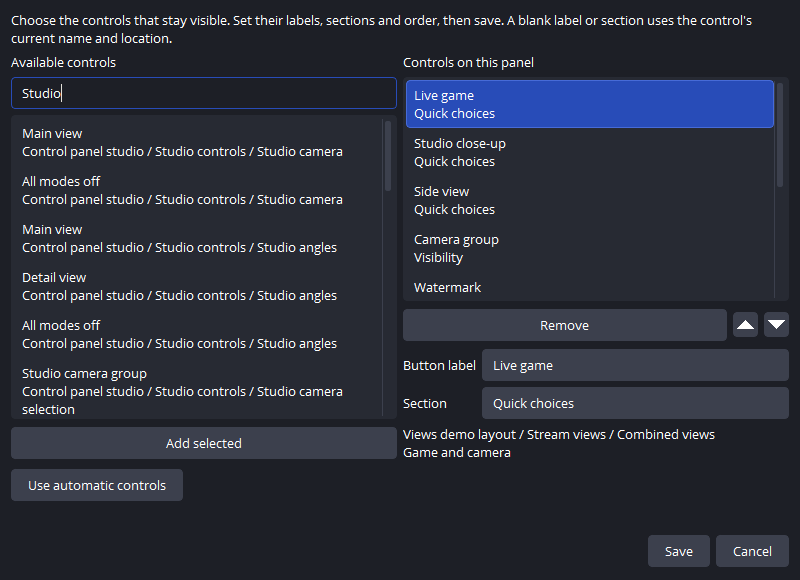
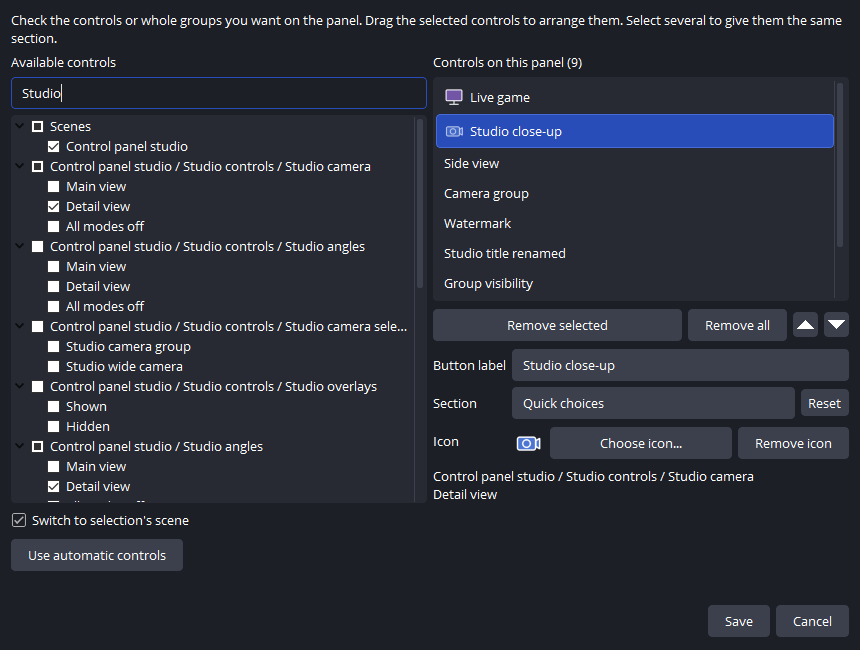
Document verified compact controls and Windows scene switching

diff --git a/DEVELOPMENT_HANDOFF.md b/DEVELOPMENT_HANDOFF.md
@@ -9,7 +9,7 @@ Read [AGENTS.md](AGENTS.md) first. This file is the current state.
 | Version | 0.1.0 (in `buildspec.json`). First pre-release is `0.1.0-beta1` |
 | Repository | https://github.com/TechSavage1989/StageKit (public; visibility verified, not changed) |
 | Default branch | `main`, which holds all work so far (pull request #1, merged 2026-11-12) |
-| Working branch | feat/compact-views-panel. Beta255 is published. The next update adds a compact list, easier panel editing, icons, button sizing and scene navigation when selecting a mode or view. |
+| Working branch | feat/compact-views-panel, PR278 for beta256. Beta255 is published. Compact controls and direct scene switching passed the complete Windows OBS run; the final guide/capture revision is awaiting its exact-head release gates. |
 | Releases / update feed | GitHub releases on this repository, which the plugin's updater reads (`src/update/`) |
 | Built against | OBS 31.1.1 (`buildspec.json`). The owner runs OBS 32.2.2 on Windows |
 | Gate | Checks passed |
@@ -46,7 +46,7 @@ Mode. The option off retains existing native destination behavior. Direct source
 controls and existing Stream Deck/vendor/hotkey defaults remain unchanged. The parent fallback must
 not guess a scene for a group or rebind a deleted destination to a same-name replacement.
 
-Implementation and validation are in progress. Preserve the beta255 panel's stable identities,
+Implementation is complete. Preserve the beta255 panel's stable identities,
 per-collection saved selections, empty custom panels, collection readiness and state-only refresh
 behavior. Actual Windows captures of the list, icon buttons and revised editor belong in this PR.
 The exact final head must pass Windows build/package, OBS frontend/restart and shared checks before
@@ -61,6 +61,17 @@ update, while execution still rejects a changed destination UUID. The icon failu
 selectFile call leaving its visible filename field empty; entering that real field reaches the working
 production image loader. The fixture keeps its strict icon and persistence assertions, captures compact
 buttons with every selected control visible, and restores the saved nondefault size before restart.
+
+Corrected head 5a62ca5986c1d837f532ff6d57e3ebeecafc2267 passed Windows frontend job 137992344279 in
+run 45260125245. Both result.txt and ndi-restart.txt report PASS, including the immediate destination
+edit/press regression, icons after removing their original files, nondefault Buttons/navigation settings,
+size 64, imported-original compatibility and collection isolation. All four quiet timing trials completed
+450 frames each; those software-renderer diagnostics do not establish hardware performance. The tested
+DLL SHA-256 is 6baed41e0be60cfc90b01dc1870cb39f52b514e4f0e9962cddda0619b3b26f16. Artifact 14861696305
+has SHA-256 646f4ea56587f3f150b11cd5827bcacfe7614d13f6a817acbb13602f8cd31324. The actual Windows list,
+compact icon buttons and checkbox editor were visually reviewed and copied into docs/images. Windows
+packaging and all shared checks passed on this head. The final screenshot/documentation head must pass
+those exact-head gates before merge; no further runtime change is planned.
 
 ## One persistent StageKit Views control panel
 
